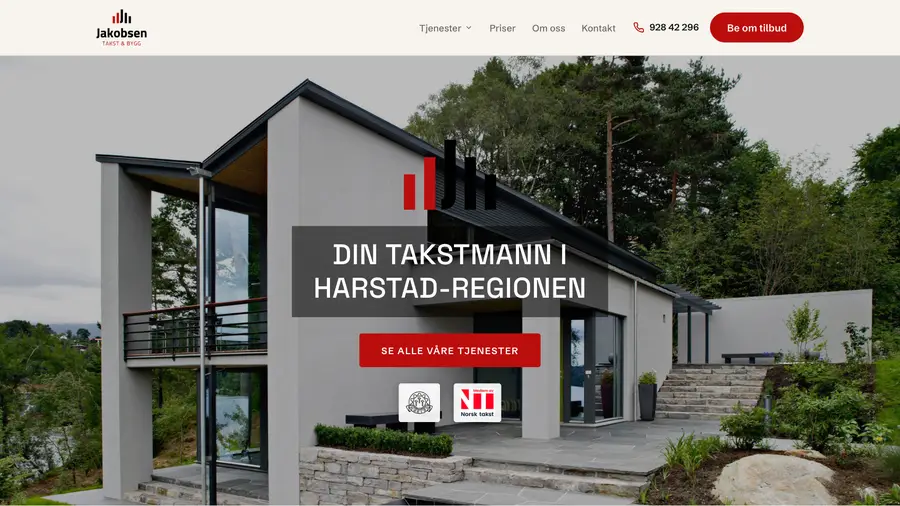
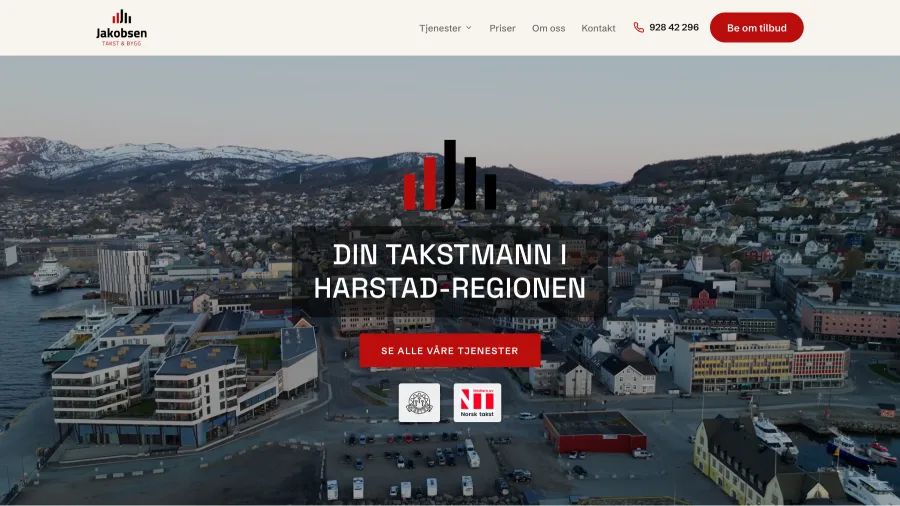
portefølje: Jakobsen Takst fra jtob.no, med Harstad-heroen
jtob.no er live. Kort, rullebilde og mobilflis er tatt på nytt fra
prod, med heroen som viser Harstad sett fra Immelen. Kortet lenker nå
til jtob.no i stedet for demoen på vercel.app.

diff --git a/src/lib/site.js b/src/lib/site.js
@@ -613,12 +613,10 @@ export const prosjekter = [
      kortet lenker rett ut til appstart.no. Fangsten er vanlig 5000 px
      (forsiden er 6370 px høy), så --til er -81% som Woxen Hage. */
   { img: '/websider/appstart.webp', slug: 'appstart', full: '/websider/full/appstart.webp', til: '-81%', navn: 'Appstart', bransje: 'Apputvikling', url: 'https://appstart.no/', domene: 'appstart.no' },
-  /* Jakobsen Takst & Bygg. Lagt inn 9. oktober 2026. Fanget med hero 2
-     (den klassiske, med logomerket over overskriften) aktiv: demoen har
-     to heroer, valgt via localStorage-nøkkelen dl-hero. Domenet er ennå
-     ikke flyttet, jtob.no kjører den gamle siden, så url peker på
-     demoen til DNS er byttet. Bytt url til https://jtob.no/ da. */
-  { img: '/websider/jakobsen-takst.webp', slug: 'jakobsen-takst', full: '/websider/full/jakobsen-takst.webp', til: '-81%', navn: 'Jakobsen Takst & Bygg', bransje: 'Takst · Harstad', url: 'https://jakobsen-takst-demo.vercel.app/', domene: 'jtob.no' },
+  /* Jakobsen Takst & Bygg. Lagt inn 9. oktober 2026. Skjermbildene er
+     tatt på nytt 15. oktober 2026 fra jtob.no etter at siden gikk live,
+     med heroen som viser Harstad sett fra Immelen. */
+  { img: '/websider/jakobsen-takst.webp', slug: 'jakobsen-takst', full: '/websider/full/jakobsen-takst.webp', til: '-81%', navn: 'Jakobsen Takst & Bygg', bransje: 'Takst · Harstad', url: 'https://jtob.no/', domene: 'jtob.no' },
   { img: '/websider/woxen-hage.webp', slug: 'woxen-hage', full: '/websider/full/woxen-hage.webp', til: '-81%', navn: 'Woxen Hage', bransje: 'Hagestell · Oslo', url: 'https://www.woxenhage.no/', domene: 'woxenhage.no' },
   { img: '/websider/katrin-brubakk.webp', slug: 'katrin-brubakk', full: '/websider/full/katrin-brubakk.webp', til: '-81%', navn: 'Katrin Brubakk', bransje: 'Psykolog · foredrag', url: 'https://katrinbrubakk.no', domene: 'katrinbrubakk.no' },
   /* Melanie Dahl. Lagt inn 21. august 2026, hentet fra arbeid en annen
